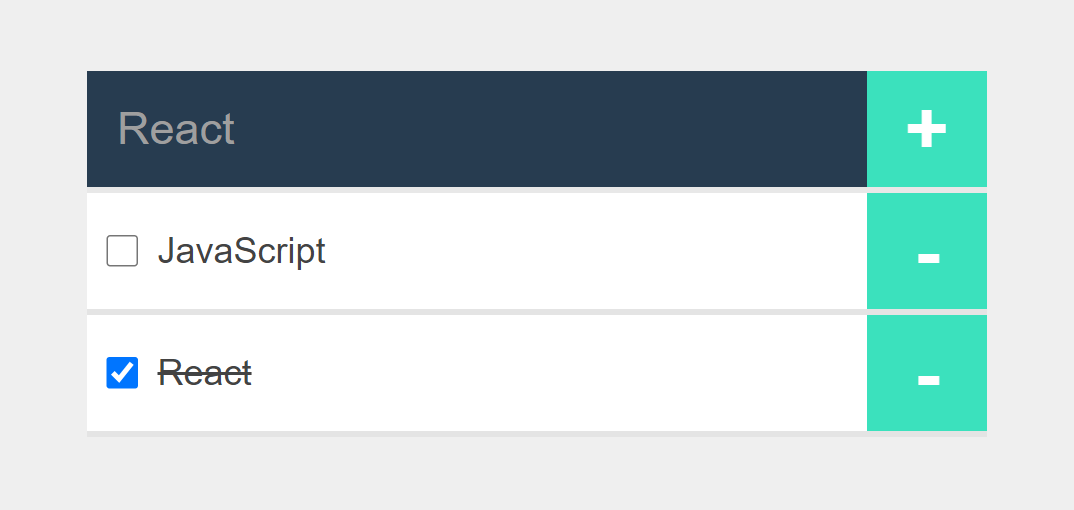
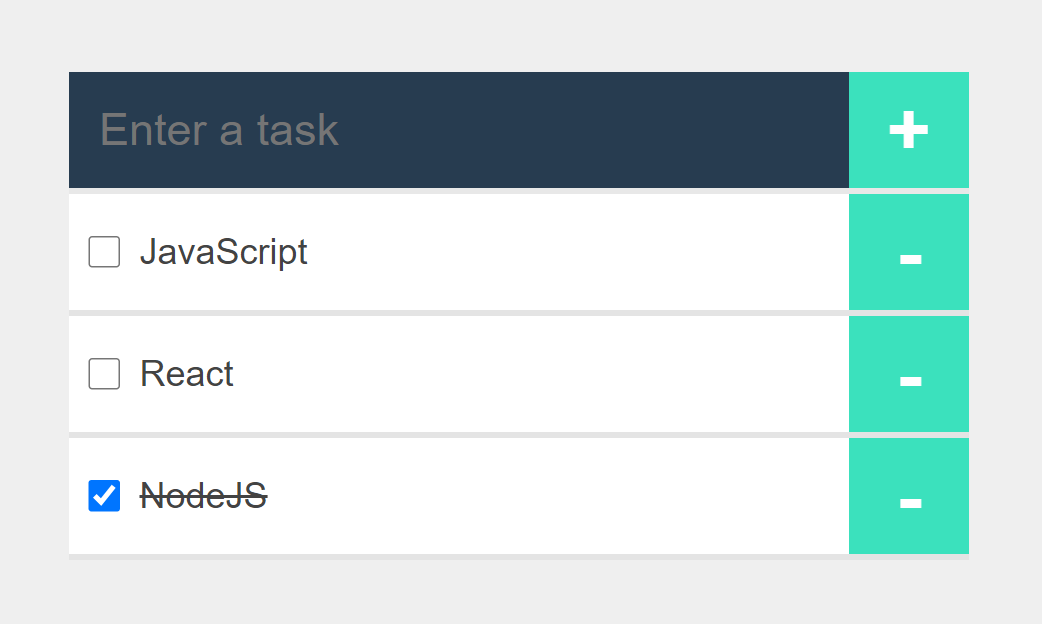
made changes in app.js and readme files

Changed region(s): [[0.0614, 0.0882, 0.952, 0.9118], [0.8599, 0.4118, 0.8906, 0.4412]]

diff --git a/app.js b/app.js
@@ -45,4 +45,6 @@ document.getElementById('add').onclick = function () {
     let inputVal = document.getElementById("input").value;
 
     createElement(inputVal)
+
+    document.getElementById("input").value = "";
 }
